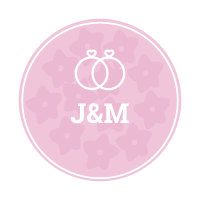
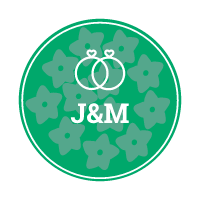
update colour scheme to Jade green

diff --git a/tailwind.config.js b/tailwind.config.js
@@ -1,25 +1,25 @@
 /** @type {import('tailwindcss').Config} */
 export default {
-  content: ['./index.html', './src/**/*.{js,ts,jsx,tsx}'],
+  content: ["./index.html", "./src/**/*.{js,ts,jsx,tsx}"],
   theme: {
     extend: {
       backgroundColor: {
-        light: 'white', // Background color for light mode
-        dark: 'rose-500', // Background color for dark mode
+        light: "white", // Background color for light mode
+        dark: "green", // Background color for dark mode
       },
       textColor: {
-        light: '#ebbad2', // Text color for light mode
-        dark: 'white', // Text color for dark mode
+        light: "#00a86b", // Text color for light mode
+        dark: "white", // Text color for dark mode
       },
     },
     colors: {
-      pink: '#ebbad2', // custom pink
+      green: "#00a86b", // custom pink
     },
   },
   variants: {
     extend: {
-      backgroundColor: ['dark'],
-      textColor: ['dark'],
+      backgroundColor: ["dark"],
+      textColor: ["dark"],
     },
   },
   plugins: [],

diff --git a/src/App.tsx b/src/App.tsx
@@ -6,12 +6,12 @@ import "./App.css";
 
 function App() {
   const [darkMode, setDarkMode] = useState(true);
-  const [seeDate, setSeeDate] = useState(false);
+  const [seeDate, setSeeDate] = useState(true);
   return (
     <>
       <main
         className={`h-screen w-screen ${
-          darkMode ? "bg-pink" : "bg-white opacity-75"
+          darkMode ? "bg-green" : "bg-white opacity-75"
         } flex flex-col items-center justify-center`}
       >
         <img
@@ -24,7 +24,7 @@ function App() {
           className={`${
             darkMode
               ? "text-white text-4xl opacity-80 border-b border-white"
-              : "text-light dark:text-dark text-4xl border-b border-pink"
+              : "text-light  text-4xl border-b border-green"
           }`}
         >
           <span onClick={() => setSeeDate(!seeDate)}>

diff --git a/src/App.css b/src/App.css
@@ -7,5 +7,5 @@
   cursor: pointer;
 }
 .logo:hover {
-  filter: drop-shadow(0 0 2em #ebbad2);
+  filter: drop-shadow(0 0 2em #00a86b);
 }
